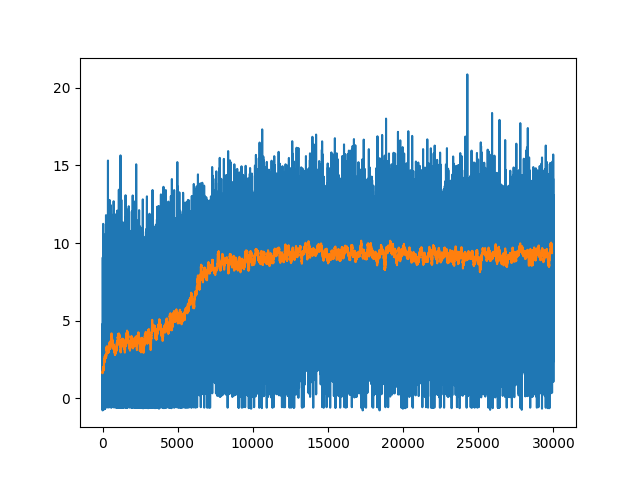
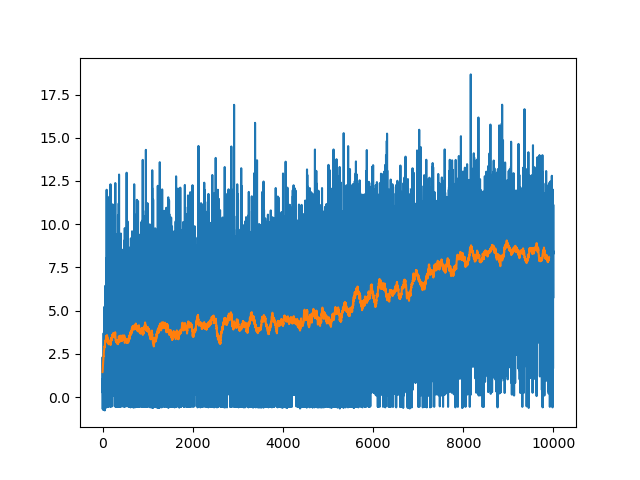
added state encoding, conv net

diff --git a/n_step_sarsa/nn.py b/n_step_sarsa/nn.py
@@ -1,53 +1,76 @@
+import sys
+sys.path.append("..")
+
 import numpy as np
 from n_step import ValueFunctionWithApproximation
+from state_encoder import encode_state
 
 import torch
 import torch.nn as nn
+import torch.nn.functional as F
 import torch.optim as optim
 
+
+class ConvNet(torch.nn.Module):
+    class Block(torch.nn.Module):
+        def __init__(self, n_input, n_output, kernel_size=3, stride=1):
+            super().__init__()
+            self.c1 = torch.nn.Conv2d(n_input, n_output, kernel_size=kernel_size, padding=kernel_size // 2,
+                                      stride=stride)
+            self.c2 = torch.nn.Conv2d(n_output, n_output, kernel_size=kernel_size, padding=kernel_size // 2)
+            self.c3 = torch.nn.Conv2d(n_output, n_output, kernel_size=kernel_size, padding=kernel_size // 2)
+            self.skip = torch.nn.Conv2d(n_input, n_output, kernel_size=1, stride=stride)
+
+        def forward(self, x):
+            return F.relu(self.c3(F.relu(self.c2(F.relu(self.c1(x))))) + self.skip(x))
+
+    def __init__(self, layers=[8, 16, 32], action_nums=10, kernel_size=3):
+        super().__init__()
+
+        L = []
+        c = 3
+        for l in layers:
+            L.append(self.Block(c, l, kernel_size))
+            c = l
+        self.network = torch.nn.Sequential(*L)
+        self.classifier = torch.nn.Linear(c, action_nums)
+
+    def forward(self, x):
+        z = self.network(x)
+        return self.classifier(z.mean(dim=[2, 3]))
 
 
 class ValueFunctionWithNN(ValueFunctionWithApproximation):
     def __init__(self,
-                 state_dims, 
                  action_nums,
-                 alpha):
+                 alpha,
+                 consider_future):
         """
         state_dims: the number of dimensions of state space
         action_nums: num of actions
         """
-        # TODO: implement this method
-        self.model = nn.Linear(state_dims, action_nums)
-        # self.model = nn.Sequential(
-        #     nn.Linear(state_dims, 32),
-        #     nn.ReLU(),
-        #     nn.Linear(32, 32),
-        #     nn.ReLU(),
-        #     nn.Linear(32, action_nums))
-        # self.model = nn.Sequential(
-        #     nn.Linear(state_dims, 32),
-        #     nn.ReLU(),
-        #     # nn.Linear(32, 32),
-        #     # nn.ReLU(),
-        #     nn.Linear(32, action_nums))
+        self.model = ConvNet(layers=[4, 8], action_nums=action_nums, kernel_size=3)
+
         self.optimizer = optim.Adam(self.model.parameters(), lr=alpha, betas=(0.9, 0.999))
 
+        # consider future pieces?
+        self.consider_future = consider_future
+
     def __call__(self,s,a):
-        # TODO: implement this method
-        s = np.concatenate((s[0].reshape(-1), s[1].reshape(-1)))
+        s = encode_state(s, self.consider_future)
         self.model.eval()
-        s = torch.Tensor(s)
+        s = torch.Tensor(s).unsqueeze(0)
         # print(s)
-        return float(self.model(s)[a])
+        return self.model(s)[0][a].item()
 
     def update(self,G,s_tau,a_tau):
-        # TODO: implement this method
         self.model.train()
         self.optimizer.zero_grad()
         # s_tau = torch.Tensor(s_tau)
-        s_tau = torch.Tensor(np.concatenate((s_tau[0].reshape(-1), s_tau[1].reshape(-1))))
-        loss = 1/2 * (self.model(s_tau)[a_tau] - G) * (self.model(s_tau)[a_tau] - G)
+        s_tau = encode_state(s_tau, self.consider_future)
+        s_tau = torch.Tensor(s_tau).unsqueeze(0)
+        pred = self.model(s_tau)
+        loss = 1/2 * (pred[0][a_tau] - G) * (pred[0][a_tau] - G)
         loss.backward()
         self.optimizer.step()
         return None
-

diff --git a/state_encoder.py b/state_encoder.py
@@ -1,0 +1,51 @@
+import numpy as np
+
+
+def encode_state(state, consider_future=False):
+    '''
+    Take game field and piece data and encode combination.
+    This is supposed to solve the issue of multiple possible game states being equivalent; it does not really matter if a
+    field is blue or red; the relation between the field and the other fields and the falling game pieces is what matters.
+
+    So we're encoding a matric of size (3 (or 7 if considering future pieces), field_height, field_width) the following way:
+    first channel: 1 for every field that matches color of left piece of current puyo
+    second channel: 1 for every field that matches color of right piece of current puyo
+    (if considering future pieces: third-sixth channel based on future pieces instead of the current one)
+    third channel: 1 for every field that is not empty
+    '''
+
+    # get field data, piece data
+    field_data = state[1]
+    pieces_data = state[0]
+
+    # transpose for simplicity
+    field_data = field_data.transpose([1,2,0])
+    pieces_data = pieces_data.transpose([1,2,0])
+
+    # find out where fields don't have color
+    no_color = np.expand_dims((field_data.sum(axis=-1) == 0).astype(int), axis=-1)
+    # inverse
+    filled = (no_color == 0).astype(int)
+
+    # combine arrays (no color is now a new color)
+    field_arr = np.concatenate((field_data, no_color), axis=-1)
+
+    # turn into indices instead of one-hot
+    argmax_arr = np.argmax(field_arr, axis = -1)
+    argmax_color = np.argmax(pieces_data, axis = -1)
+
+
+    channels_list = []
+
+    if consider_future:
+        for i in range(argmax_color.shape[0]):
+            for j in range(argmax_color[0].shape[0]):
+                channels_list.append(np.expand_dims((argmax_arr == argmax_color[i][j]).astype(int), axis=-1))
+    else:
+        for i in range(argmax_color[0].shape[0]):
+            channels_list.append(np.expand_dims((argmax_arr == argmax_color[0][i]).astype(int), axis=-1))
+
+    channels_list.append(filled)
+
+    # combine all, transpose into original (colors, height, width) again
+    return np.stack(channels_list, axis=-1).squeeze().transpose([2,0,1])

diff --git a/n_step_sarsa/run.py b/n_step_sarsa/run.py
@@ -2,20 +2,30 @@ import numpy as np
 import gym
 from gym_puyopuyo import register
 from n_step import semi_gradient_n_step_td
-from policy import EpsGreedyPolicy 
+from policy import EpsGreedyPolicy
 from nn import ValueFunctionWithNN
 register()
 
+import torch
+
 def test_nn(n, plot):
     env = gym.make("PuyoPuyoEndlessSmall-v2")
+
+    """
+    from https://github.com/frostburn/gym_puyopuyo:
+    The pieces to be played are encoded as a numpy arrays with (n_colors, 3, 2) shape.
+    The playing field is encoded as a numpy array with (n_colors, heights, width) shape.
+    An observations is a tuple of (pieces, field).
+    """
     print(env.observation_space, env.action_space.n)
 
     # V = ValueFunctionWithNN(env.observation_space.shape[0], env.action_space.n)
-    V = ValueFunctionWithNN(3*3*2+3*8*3, env.action_space.n, alpha=0.001)
+
+    V = ValueFunctionWithNN(env.action_space.n, alpha=0.001, consider_future=False)
 
     policy = EpsGreedyPolicy(V=V, action_nums=env.action_space.n, eps=0.01)
 
-    semi_gradient_n_step_td(env,0.95,policy,n,V,10000,plot)
+    semi_gradient_n_step_td(env, 0.95, policy, n, V, 10000, 50, plot)
 
     # Vs = [V(s) for s in testing_states]
     # print(Vs)

diff --git a/puyo_playground.py b/puyo_playground.py
@@ -1,8 +1,14 @@
+import numpy as np
+
 from gym_puyopuyo import register
 from gym import make
+
+from state_encoder import encode_state
+
 # from sarsa import StateActionFeatureVectorWithTile
 
 # encoder = StateActionFeatureVectorWithTile()
+
 
 register()
 
@@ -14,6 +20,14 @@ for i in range(100):
     action = small_env.action_space.sample()
     state, reward, done, info = small_env.step(action)
     print(reward, state[0].shape, state[1].shape)
+    print("current puyo:")
+    print(state[0].transpose([1,2,0])[0])
+
+    encoded_state = encode_state(state)
+
+    print("encoded state:")
+    print(encoded_state.transpose([1,2,0]))
+
     # print(encoder(state, done, action).shape)
     small_env.render()
     if done:

diff --git a/n_step_sarsa/n_step.py b/n_step_sarsa/n_step.py
@@ -38,6 +38,7 @@ def semi_gradient_n_step_td(
     n:int,
     V:ValueFunctionWithApproximation,
     num_episode:int,
+    max_steps:int,
     plot:str,
 ):
     """
@@ -61,7 +62,7 @@ def semi_gradient_n_step_td(
         traj = []
         G_ = 0.0
         t = 0
-        while True:
+        for step in range(max_steps):
             a = pi.action(state)
             old_state = state
             state, r, done, info = env.step(a)
@@ -96,9 +97,3 @@ def semi_gradient_n_step_td(
     plt.savefig(plot)
     plt.close()
     return V
-
-
-
-
-
-
